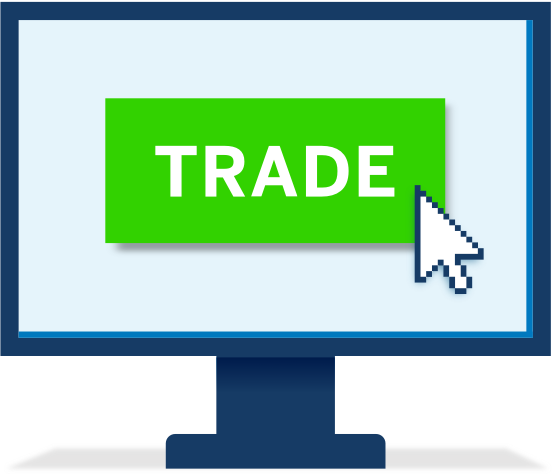
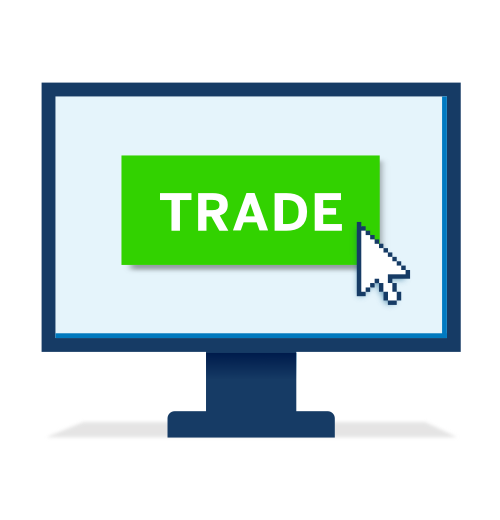
updates for educators promo images

diff --git a/src/_scss/partials/_educators.scss b/src/_scss/partials/_educators.scss
@@ -281,12 +281,8 @@
 	.image img {
 		display: block;
 		margin: 0 auto;
-		max-height: 250px;
-
-		@media (min-width: 767px) {
-			max-height: 225px;
-			max-width: 50%;
-		}
+		max-height: 260px;
+		max-width: 250px;
 	}
 
 	.content {
